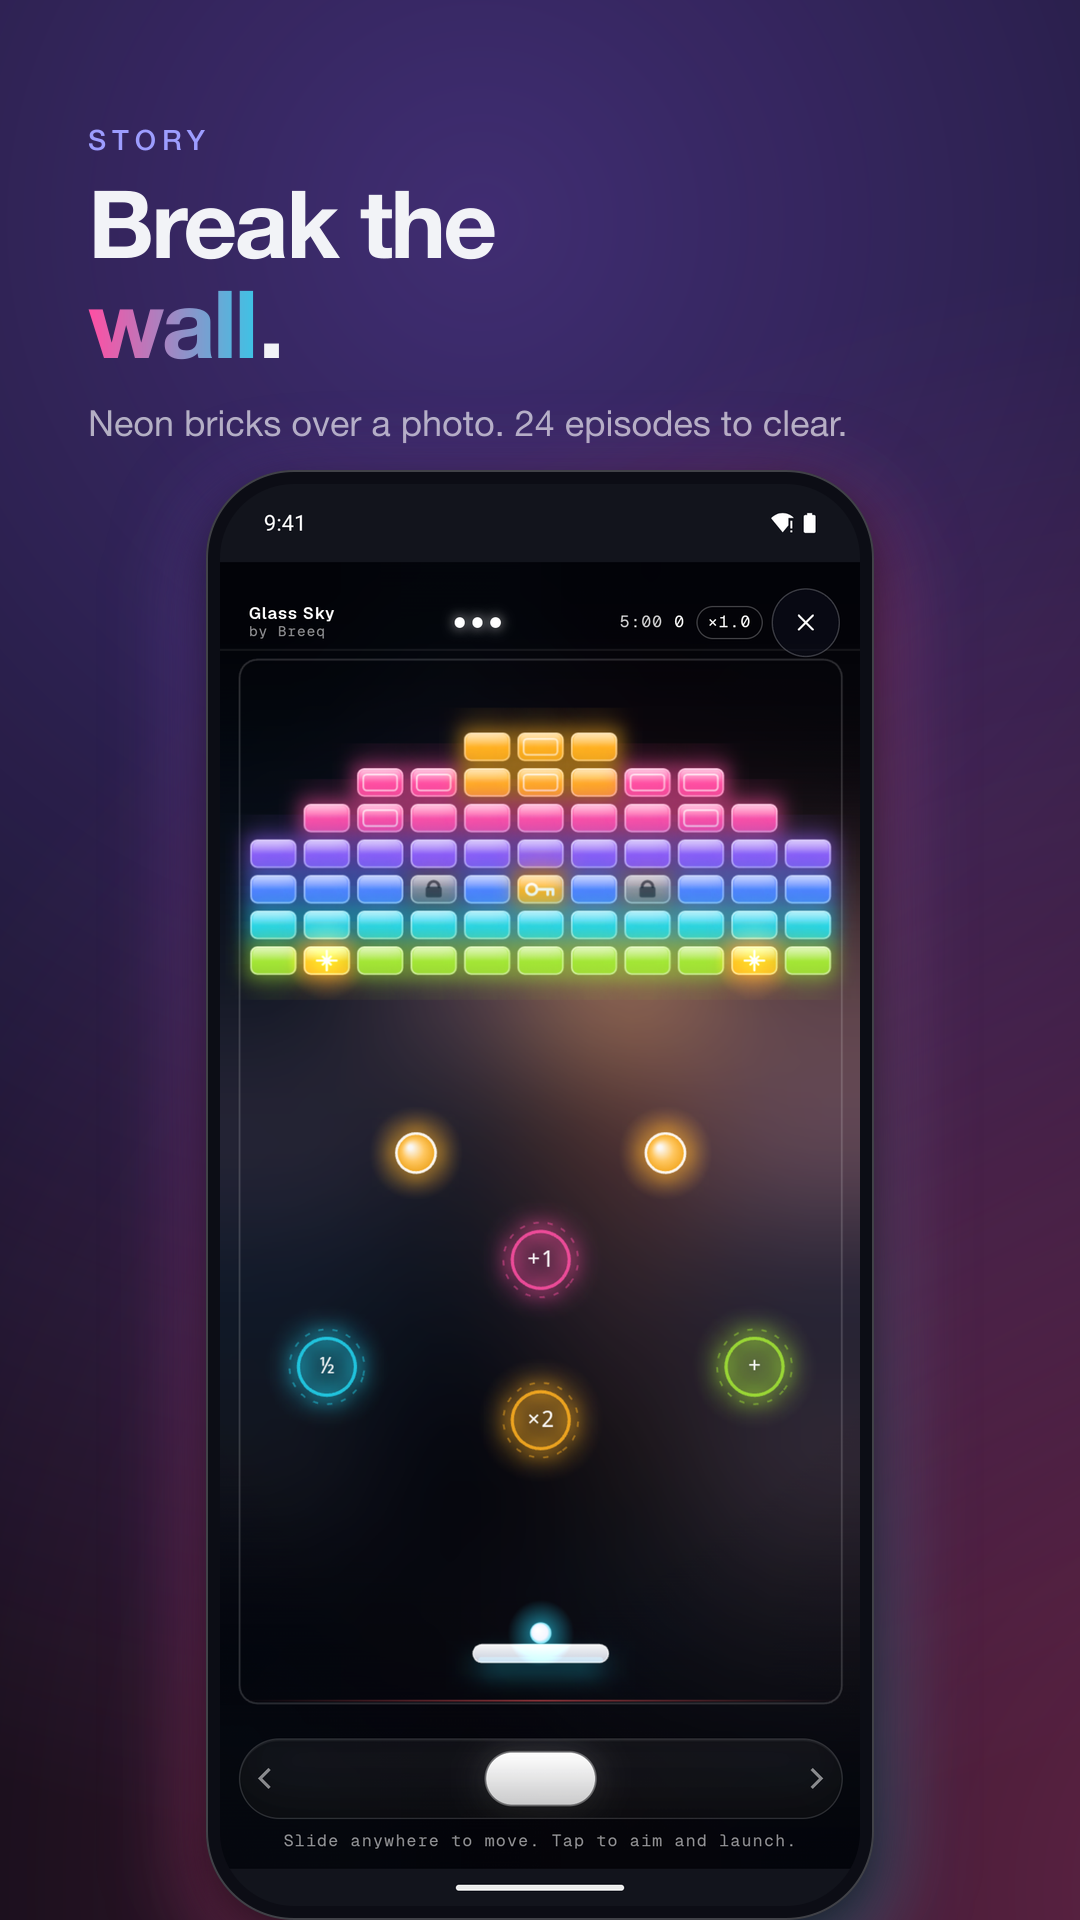
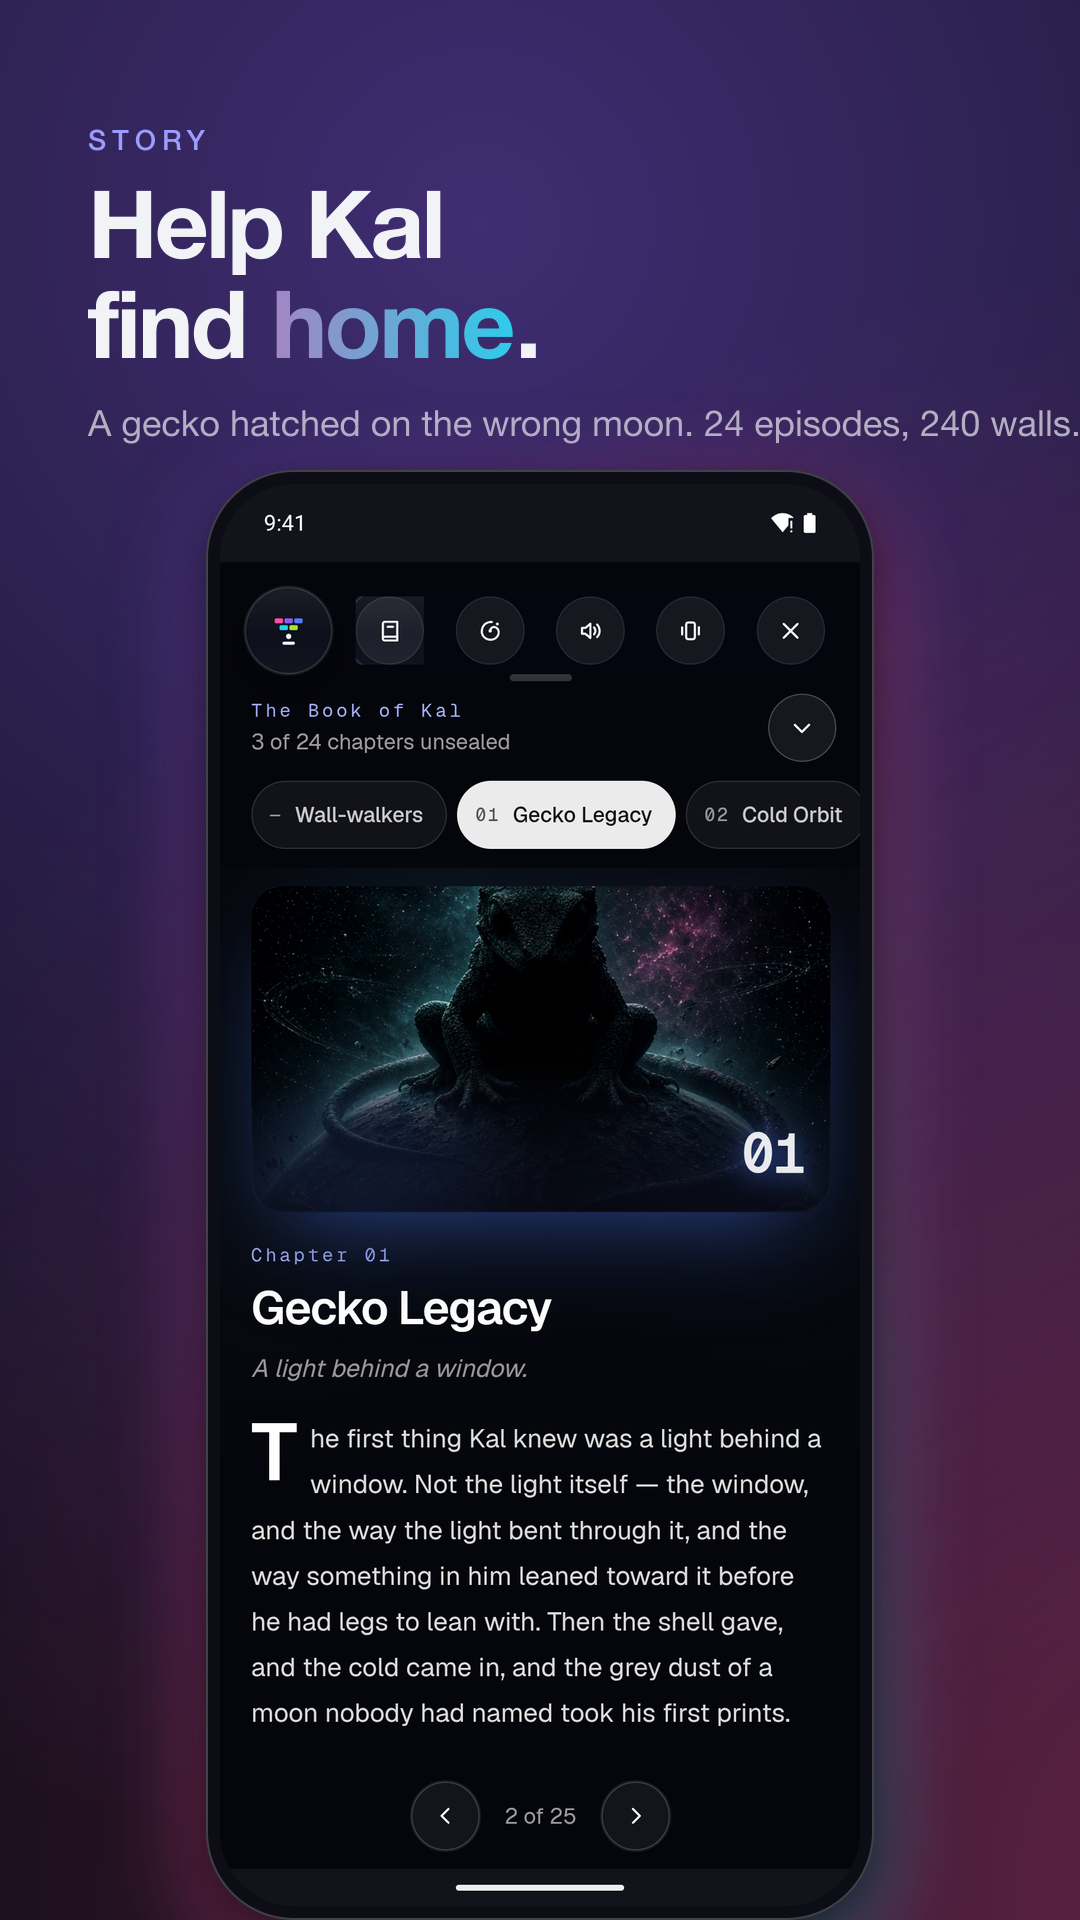
Play listing: story panels (Book of Kal, episode map, galaxy map), Kal's road in the description, eight panels per set

diff --git a/android/store/listing.md b/android/store/listing.md
@@ -6,15 +6,16 @@ Everything Play Console asks for, in the order it asks. Assets live next to this
 | --- | --- | --- |
 | App icon | `icon-512.png` | 512×512 PNG, 32-bit, ≤ 1 MB |
 | Feature graphic | `feature-1024x500.png` | 1024×500 PNG/JPEG, no alpha |
-| Phone screenshots (7) | `screenshots/phone/01…07.png` | 1080×1920, 9:16, 24-bit PNG |
-| 7-inch tablet (7) | `screenshots/tablet-7/01…07.png` | 1440×2560 |
-| 10-inch tablet (7) | `screenshots/tablet-10/01…07.png` | 2160×3840 |
+| Phone screenshots (8) | `screenshots/phone/01…08.png` | 1080×1920, 9:16, 24-bit PNG |
+| 7-inch tablet (8) | `screenshots/tablet-7/01…08.png` | 1440×2560 |
+| 10-inch tablet (8) | `screenshots/tablet-10/01…08.png` | 2160×3840 |
 | Release bundle | `../dist/breeq-<version>-<code>.aab` | built by `pnpm android:release` |
 
 Screenshots are composed from real captures of the release build on a Pixel-class
 emulator (1080×2400) signed in as the review account; the composer lives outside the
 repo (a one-off `sharp` script). Upload them in numeric order: the first three read as
-a triptych (Story → Build → Earn) and share one sky.
+a triptych (Story → Play → Build) and share one sky; 04–06 and 07–08 share theirs.
+Panels 01, 06 and 07 carry the story (the Book of Kal, an episode map, the galaxy map).
 
 ---
 
@@ -39,12 +40,12 @@ Break neon bricks on player-made walls. Clear them, earn gems, win pots in ETH.
 ### Full description (4000 characters max)
 
 ```
-Breeq is a brick breaker built by players, for players.
+Breeq is a brick breaker with a story to finish and walls built by players.
 
-Every wall is a photo someone chose, covered in glowing glass bricks and bonus rings that bend the ball. Take the paddle, clear the wall, and the next one is waiting.
+Every wall is glass: neon bricks over a photo, bonus rings that bend the ball, a paddle under your thumb. Clear it, and the next one is waiting.
 
-PLAY THE STORY
-Follow Kal, a galactic gecko, on the road home: 24 hand-built episodes, ten walls each. Every clear pays XP, three stars reward a clean run, and the level bar climbs.
+HELP KAL FIND HOME
+Kal is a galactic gecko who hatched alone on a grey moon, far from Vitra, the glass-sky world his egg left behind. All he has is a pod, a star chart with one star circled, and a heartbeat he remembers from inside the egg. Walk him home: 24 hand-built episodes and 240 walls across three seasons, past the Lanterns that guard his sky, the peoples of the Long Migration, and the Hush, the dark that eats light. Every clear pays XP and turns a page in the Book of Kal; the galaxy map fills in behind you, one world at a time.
 
 RINGS THAT BEND THE BALL
 Slow rings, ×2 and ×3 speed rings, split rings that spawn a second ball, portals that teleport it. Locks and keys, explosive bricks, regenerating bricks, bumpers, rails, fans and black holes. Each episode teaches one new piece and then makes you use it.
@@ -67,14 +68,14 @@ Sign in with Google or email. Your XP, gems, ETH balance and walls are the same 
 No ads. No subscription. Gems are optional; the story is free.
 ```
 
-About 1,750 characters. Plain text only: Play strips markdown, and emoji in
+About 2,150 characters. Plain text only: Play strips markdown, and emoji in
 descriptions read as spam to reviewers.
 
 ### What's new (500 characters max, per release)
 
 ```
 First release.
-• 24 story episodes, 240 walls, a new piece every episode.
+• Help Kal, a gecko hatched on the wrong moon, find his way home: 24 episodes, 240 walls, the Book of Kal and a galaxy map.
 • Wall editor with photo backgrounds, twenty skies and a robot proof.
 • Earn store: publish walls, buy tickets in gems, clear for pots in ETH.
 • Sound in each level's key, haptics, portrait one-thumb play.
@@ -194,7 +195,7 @@ website.
 2. Graphics:
    - App icon → `icon-512.png`
    - Feature graphic → `feature-1024x500.png`
-   - Phone screenshots → drag `screenshots/phone/01…07.png` in order (the uploader
+   - Phone screenshots → drag `screenshots/phone/01…08.png` in order (the uploader
      keeps drop order; if it doesn't, reorder by dragging the thumbnails).
    - 7-inch tablet → `screenshots/tablet-7/*`
    - 10-inch tablet → `screenshots/tablet-10/*`

diff --git a/AGENTS.md b/AGENTS.md
@@ -96,7 +96,7 @@ Players publish walls, pay a ticket in gems to try one, and a clear pays a pot i
 
 # Android app (`android/`)
 
-A native Kotlin shell (`com.breeq.breeq`) around one WebView on `/game/menu`, portrait only, minSdk 23, target 36, ~270 KB. No game logic, no page logic: the site is the app. Listed as **"Breeq: Brick Breaker & Earn"** (`android/store/listing.md` holds the copy, the App content answers and the upload walkthrough; the icon, the feature graphic and `screenshots/{phone,tablet-7,tablet-10}/` — seven panels composed from real captures, the first three a triptych — sit beside it). The Play review account is `playreview@breeq.space` (credentials in the listing).
+A native Kotlin shell (`com.breeq.breeq`) around one WebView on `/game/menu`, portrait only, minSdk 23, target 36, ~270 KB. No game logic, no page logic: the site is the app. Listed as **"Breeq: Brick Breaker & Earn"** (`android/store/listing.md` holds the copy, the App content answers and the upload walkthrough; the icon, the feature graphic and `screenshots/{phone,tablet-7,tablet-10}/` — eight panels composed from real captures, three of them story (Book of Kal, episode map, galaxy map), the first three a triptych — sit beside it). The Play review account is `playreview@breeq.space` (credentials in the listing).
 
 - **One command ships it.** `pnpm android:release [versionName]` (`android/release.sh`) finds the SDK, signs with the upload key in `android/keystore/` + `android/keystore.properties` (committed on purpose: private repo, archived with the code; rotate before going public), bumps `versionCode` in `android/version.properties` (commit it), runs `bundleRelease assembleRelease` and drops `android/dist/breeq-<name>-<code>.aab/.apk`, printing the certificate SHA-256. `pnpm android:debug` installs the debug build (`com.breeq.breeq.debug`, cleartext allowed, `-Pbreeq.startUrl=` to point at `pnpm dev`). Gradle 9.6 + AGP 9.4 with built-in Kotlin; no Android Studio required.
 - **`MainActivity.kt` is the whole shell.** Edge to edge with the WebView padded by the system-bar insets; the bars' backdrop takes the page's `body` background, reported by an injected observer through `window.BreeqAndroid.setChrome()` whenever `html[data-theme]` flips (the site can use `window.BreeqAndroid` / the `BreeqApp/<version>` UA token to detect the app). `textZoom` 100, no zoom, algorithmic darkening off. Cookies persist and flush on pause; back navigates the WebView then backgrounds the app. Navigation: our hosts (`breeq.appHosts` in `android/gradle.properties`), Google sign-in, Stripe Checkout and 3-D Secure pages load inside; the share networks, `target=_blank` popups and non-http schemes go to the matching app. UA drops `; wv` / `Version/4.0` so Google OAuth accepts the WebView. Photo picker for `<input type="file">`, native offline view with retry, splash held until the first paint (5 s max), `onRenderProcessGone` recreates the activity.

diff --git a/android/README.md b/android/README.md
@@ -60,7 +60,7 @@ The debug build has the id `com.breeq.breeq.debug`, allows cleartext HTTP, and e
 App: **Breeq: Brick Breaker & Earn**, package `com.breeq.breeq`. Listing copy and assets are
 in `store/`: `listing.md` (copy, App content answers, data safety table and the upload
 walkthrough), `icon-512.png`, `feature-1024x500.png`, and `screenshots/{phone,tablet-7,tablet-10}/`
-(seven panels each, composed from real captures of the release build; the first three are a
+(eight panels each, composed from real captures of the release build; the first three are a
 triptych). Play App Signing is on; the key committed here is the *upload* key.
 
 Gem packs are bought through Stripe Checkout inside the WebView. Play's payments policy
